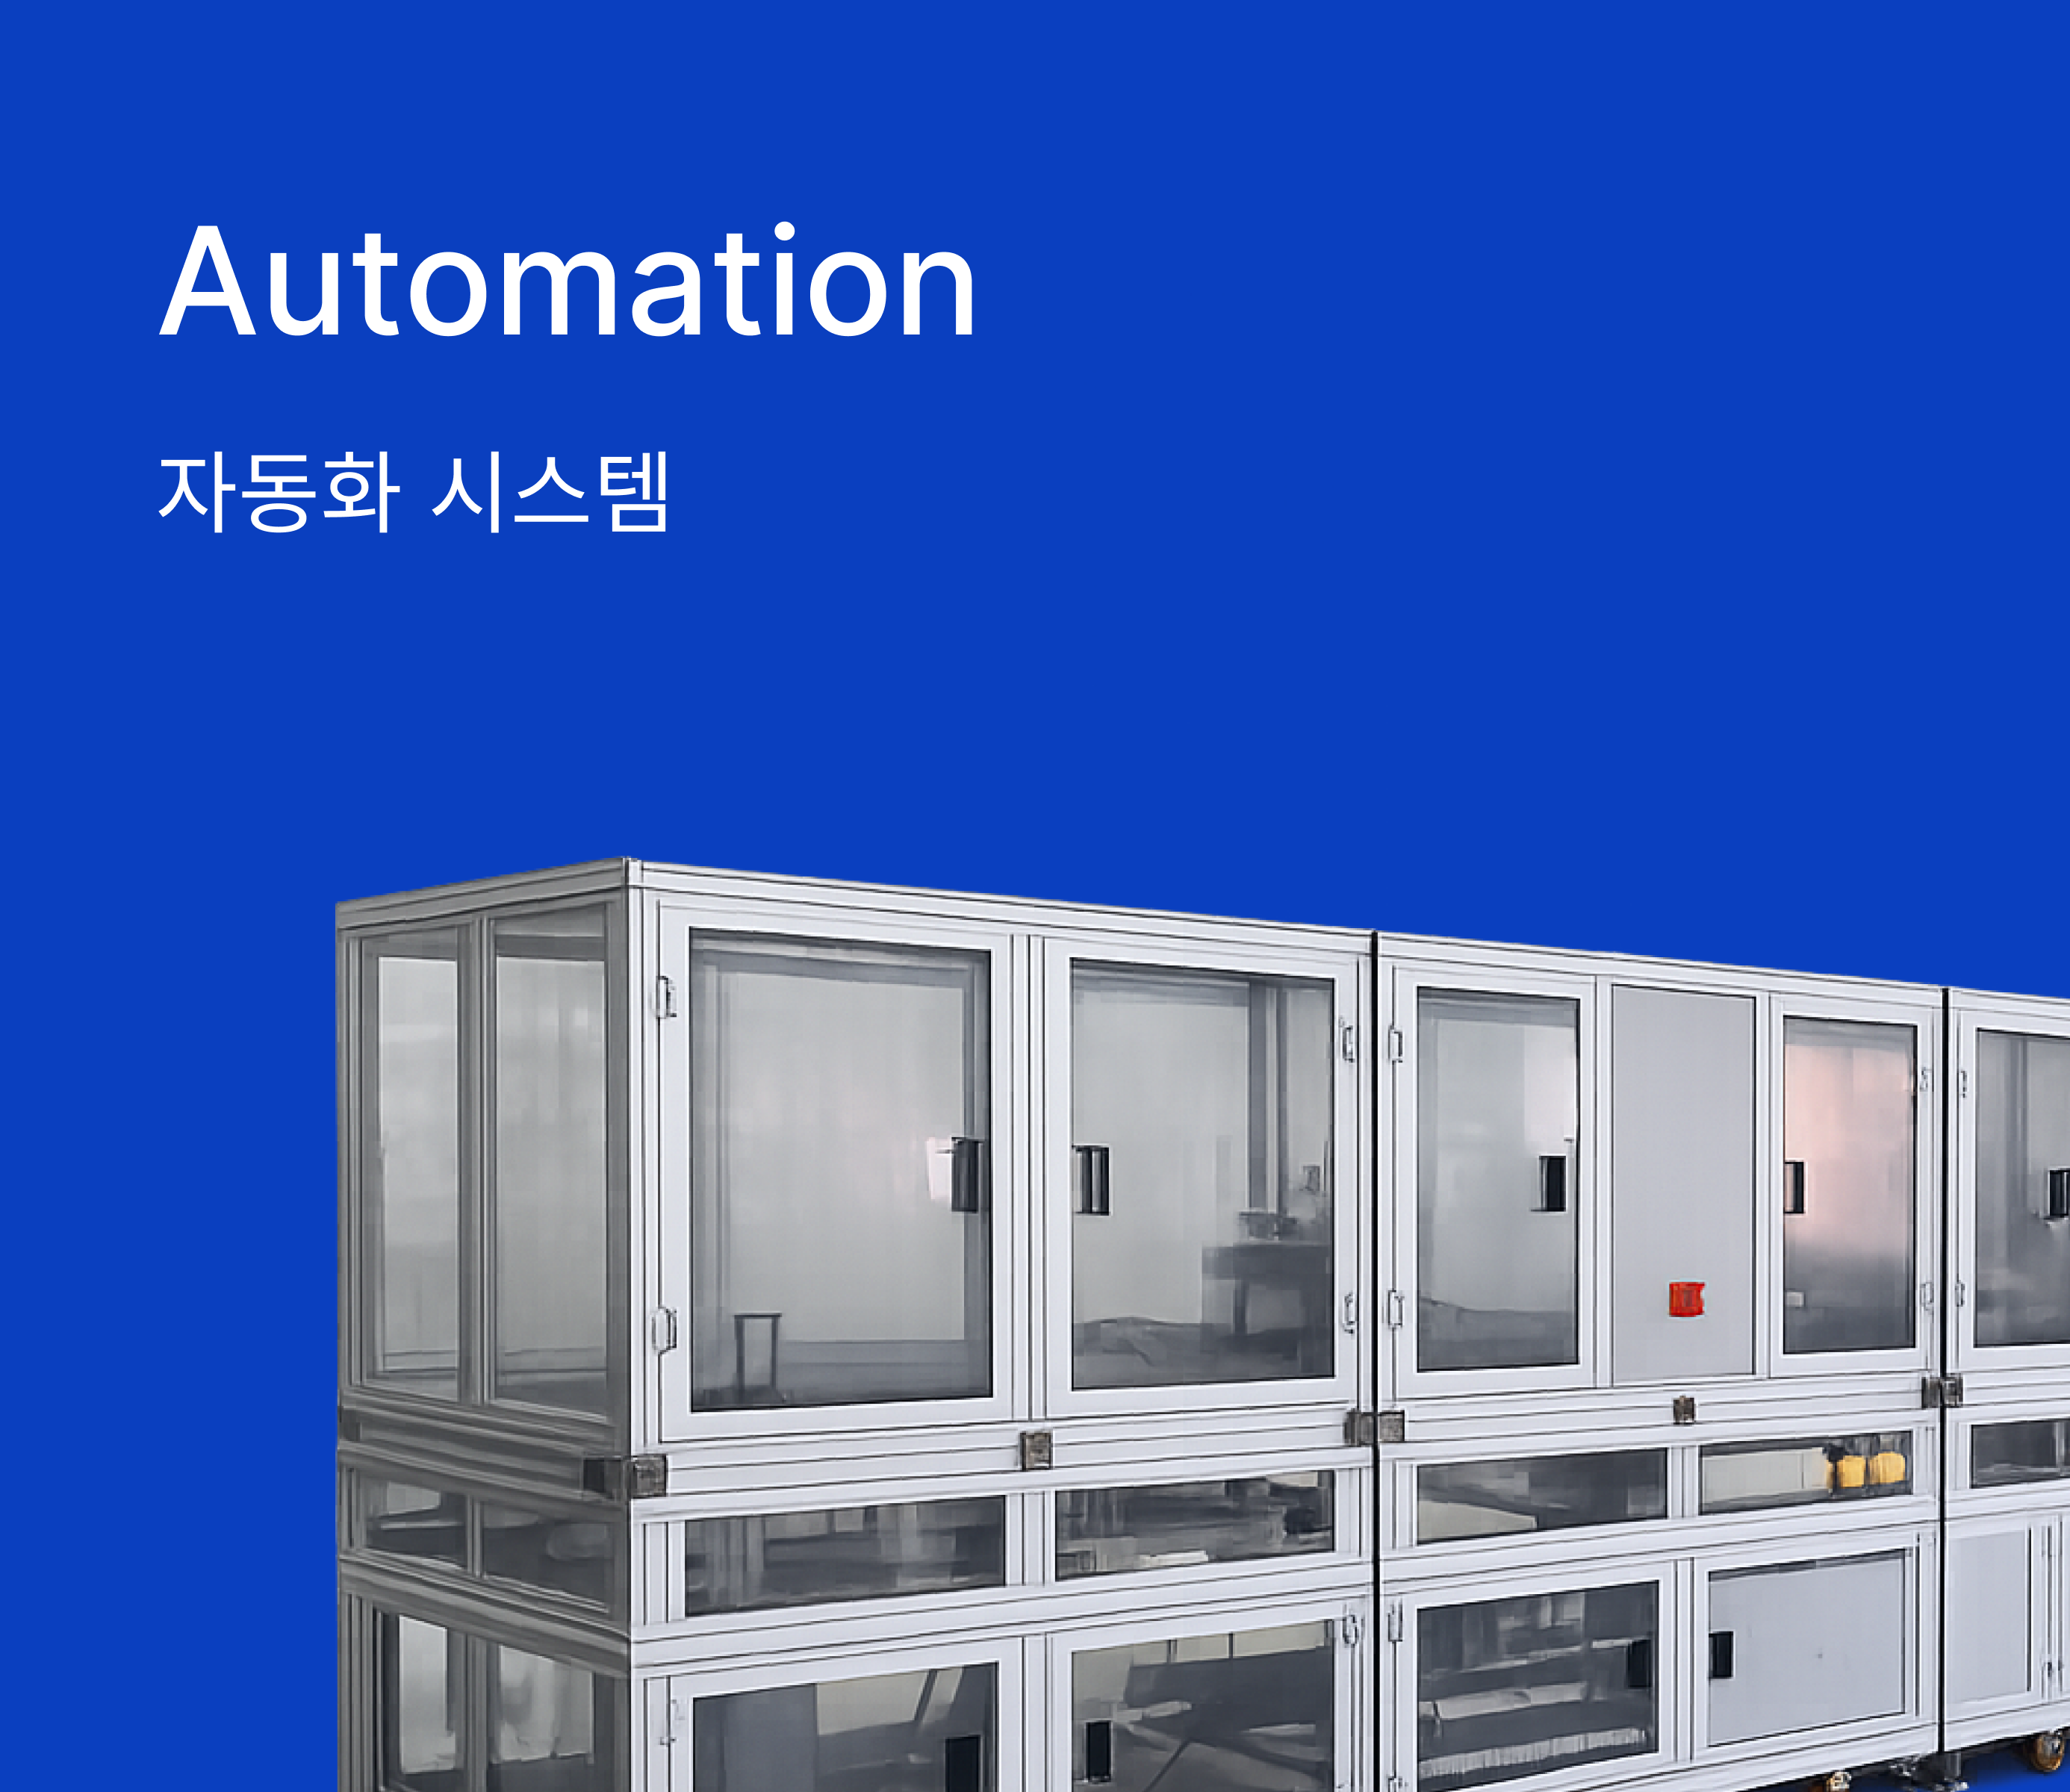
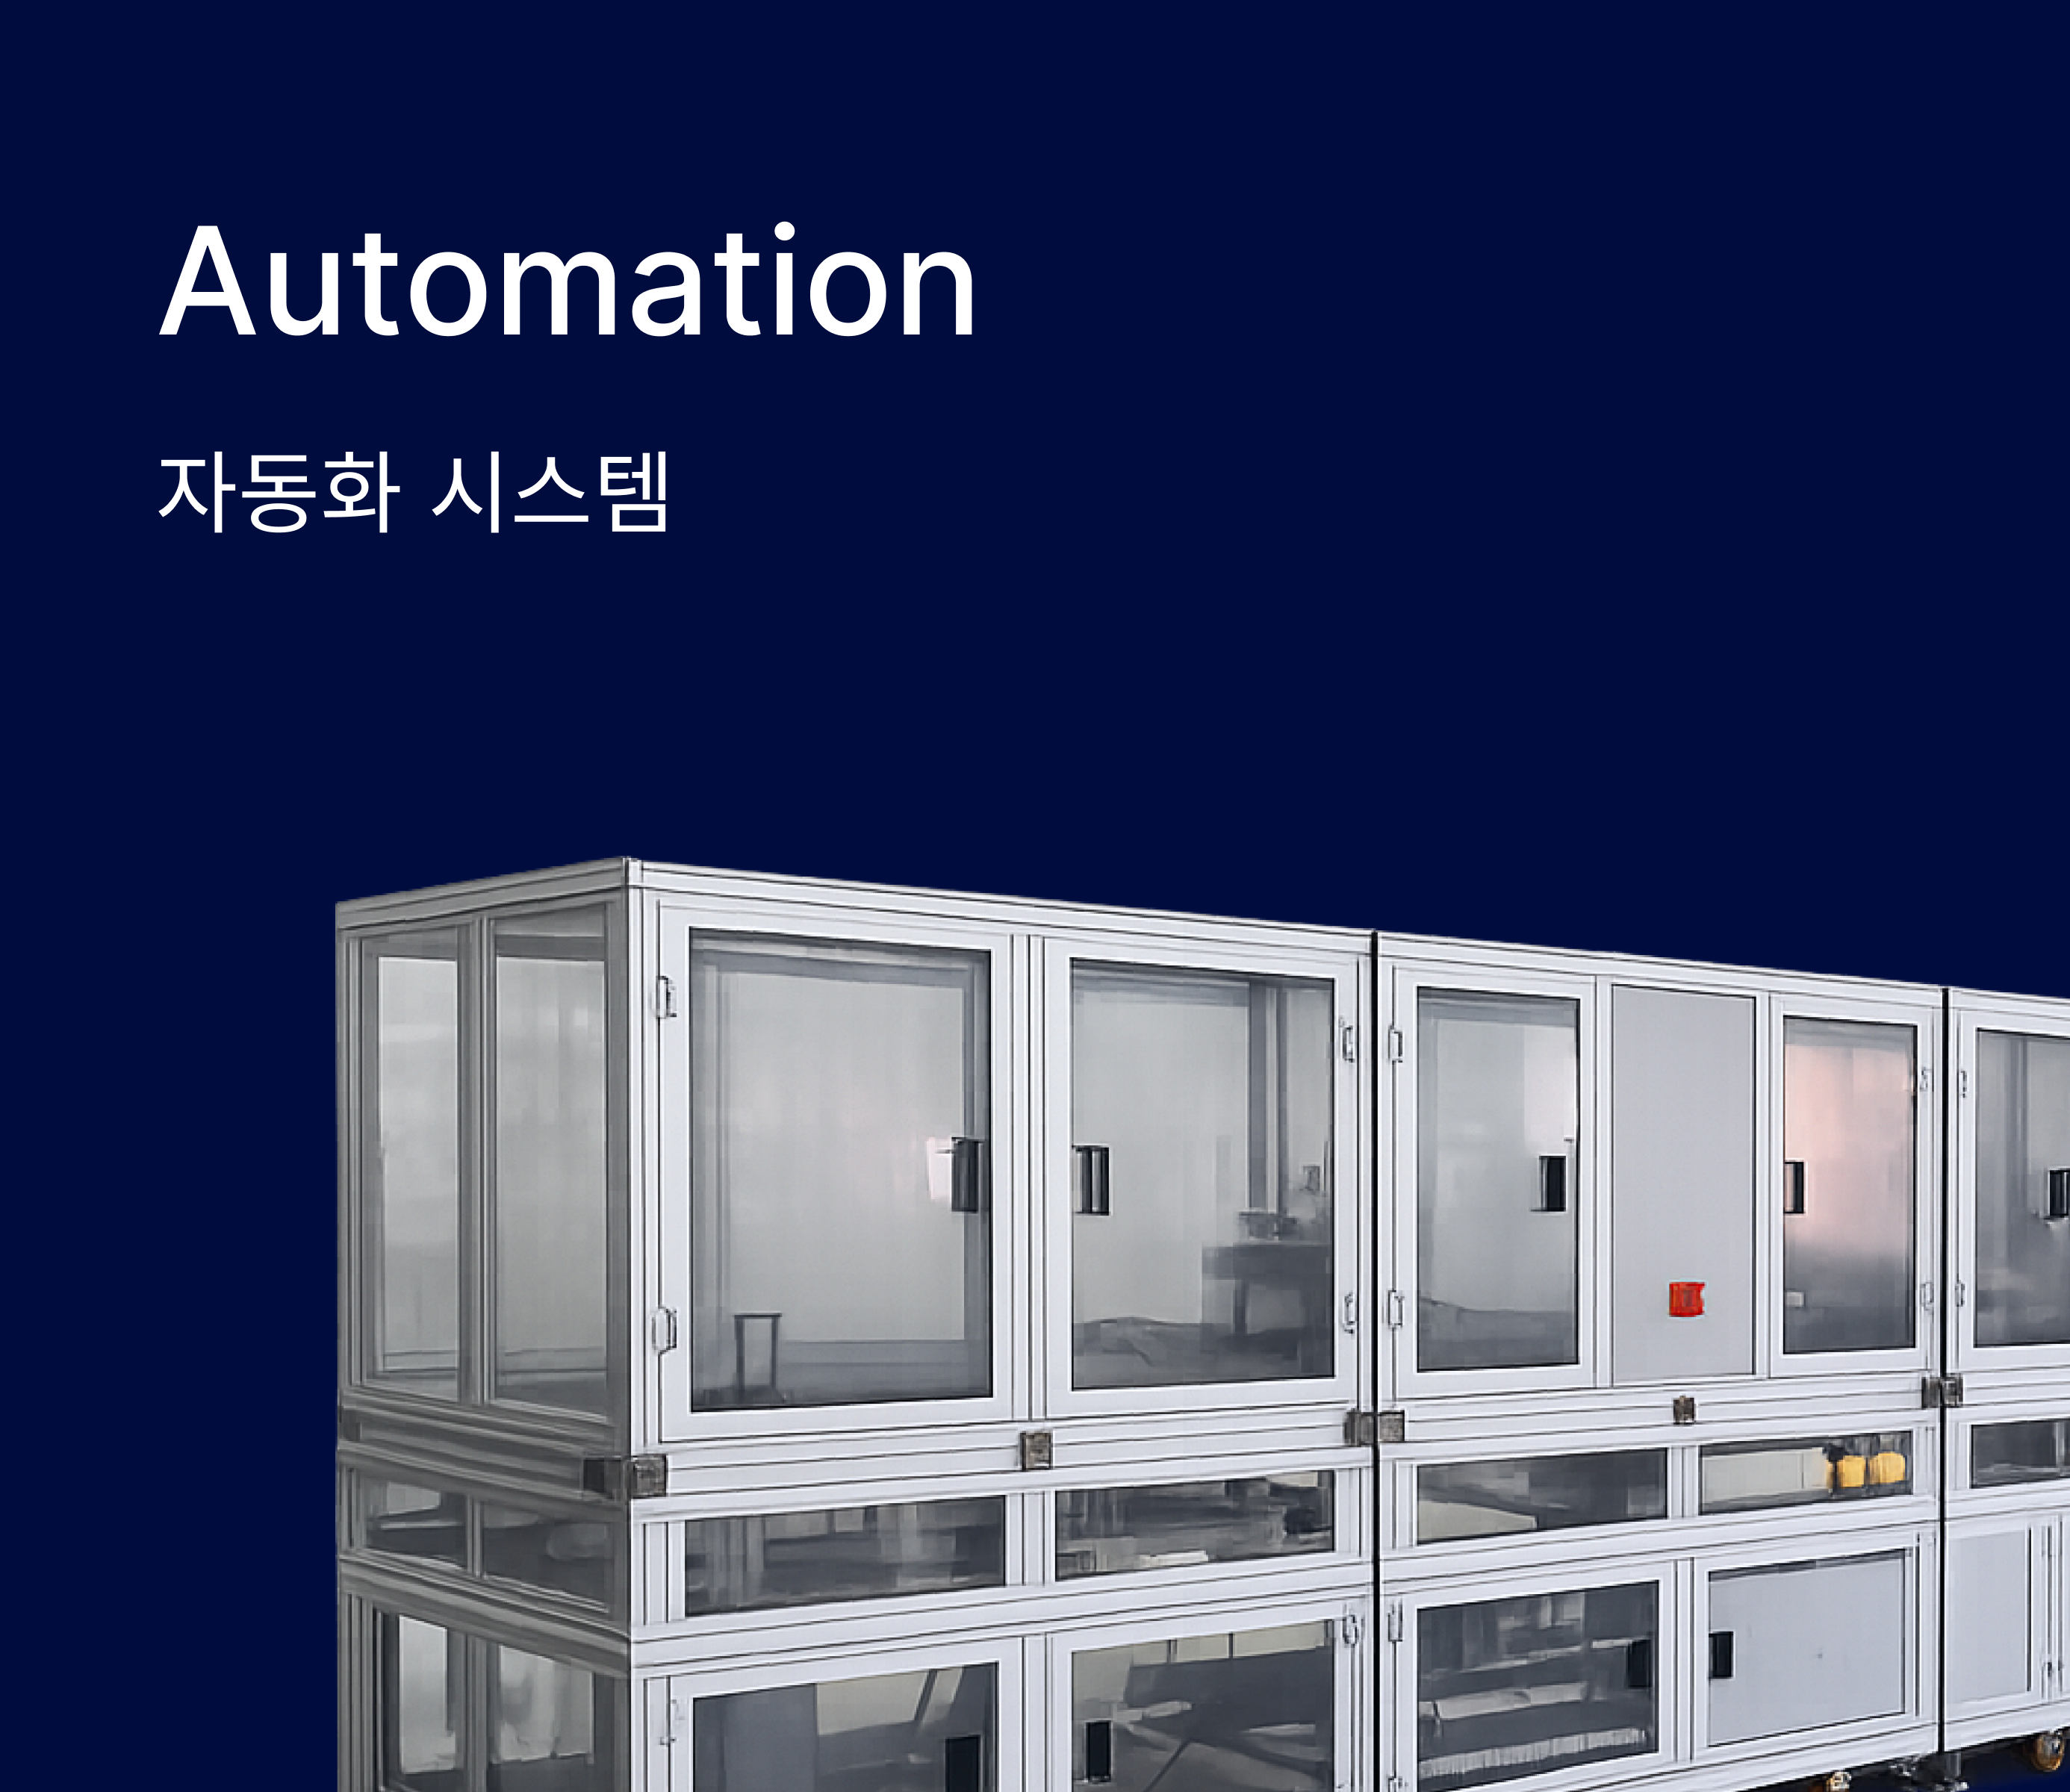
chore: 로고 및 이미지 에셋 업데이트
- 헤더 로고를 로고_블루블랙@user.png으로 변경
- 자동화시스템, valuechain_bg 이미지 교체
- 로고_블루블랙, 로구_블루화이트 에셋 추가

diff --git a/src/components/layout/Header.tsx b/src/components/layout/Header.tsx
@@ -26,7 +26,7 @@ export default function Header() {
         <div className="max-w-[1440px] mx-auto px-8 h-20 flex items-center flex-nowrap">
           {/* Logo */}
           <Link href="/" onClick={() => setMenuOpen(false)} className="shrink-0 mr-10">
-            <Image src="/logo.png" alt="Factorix" width={180} height={50} priority className="h-12 w-auto object-contain" />
+            <Image src="/로고_블루블랙@4x.png" alt="Factorix" width={180} height={50} priority className="h-12 w-auto object-contain" />
           </Link>
 
           {/* Desktop nav — flex-nowrap 보장, 항목 수에 맞게 px 최소화 */}